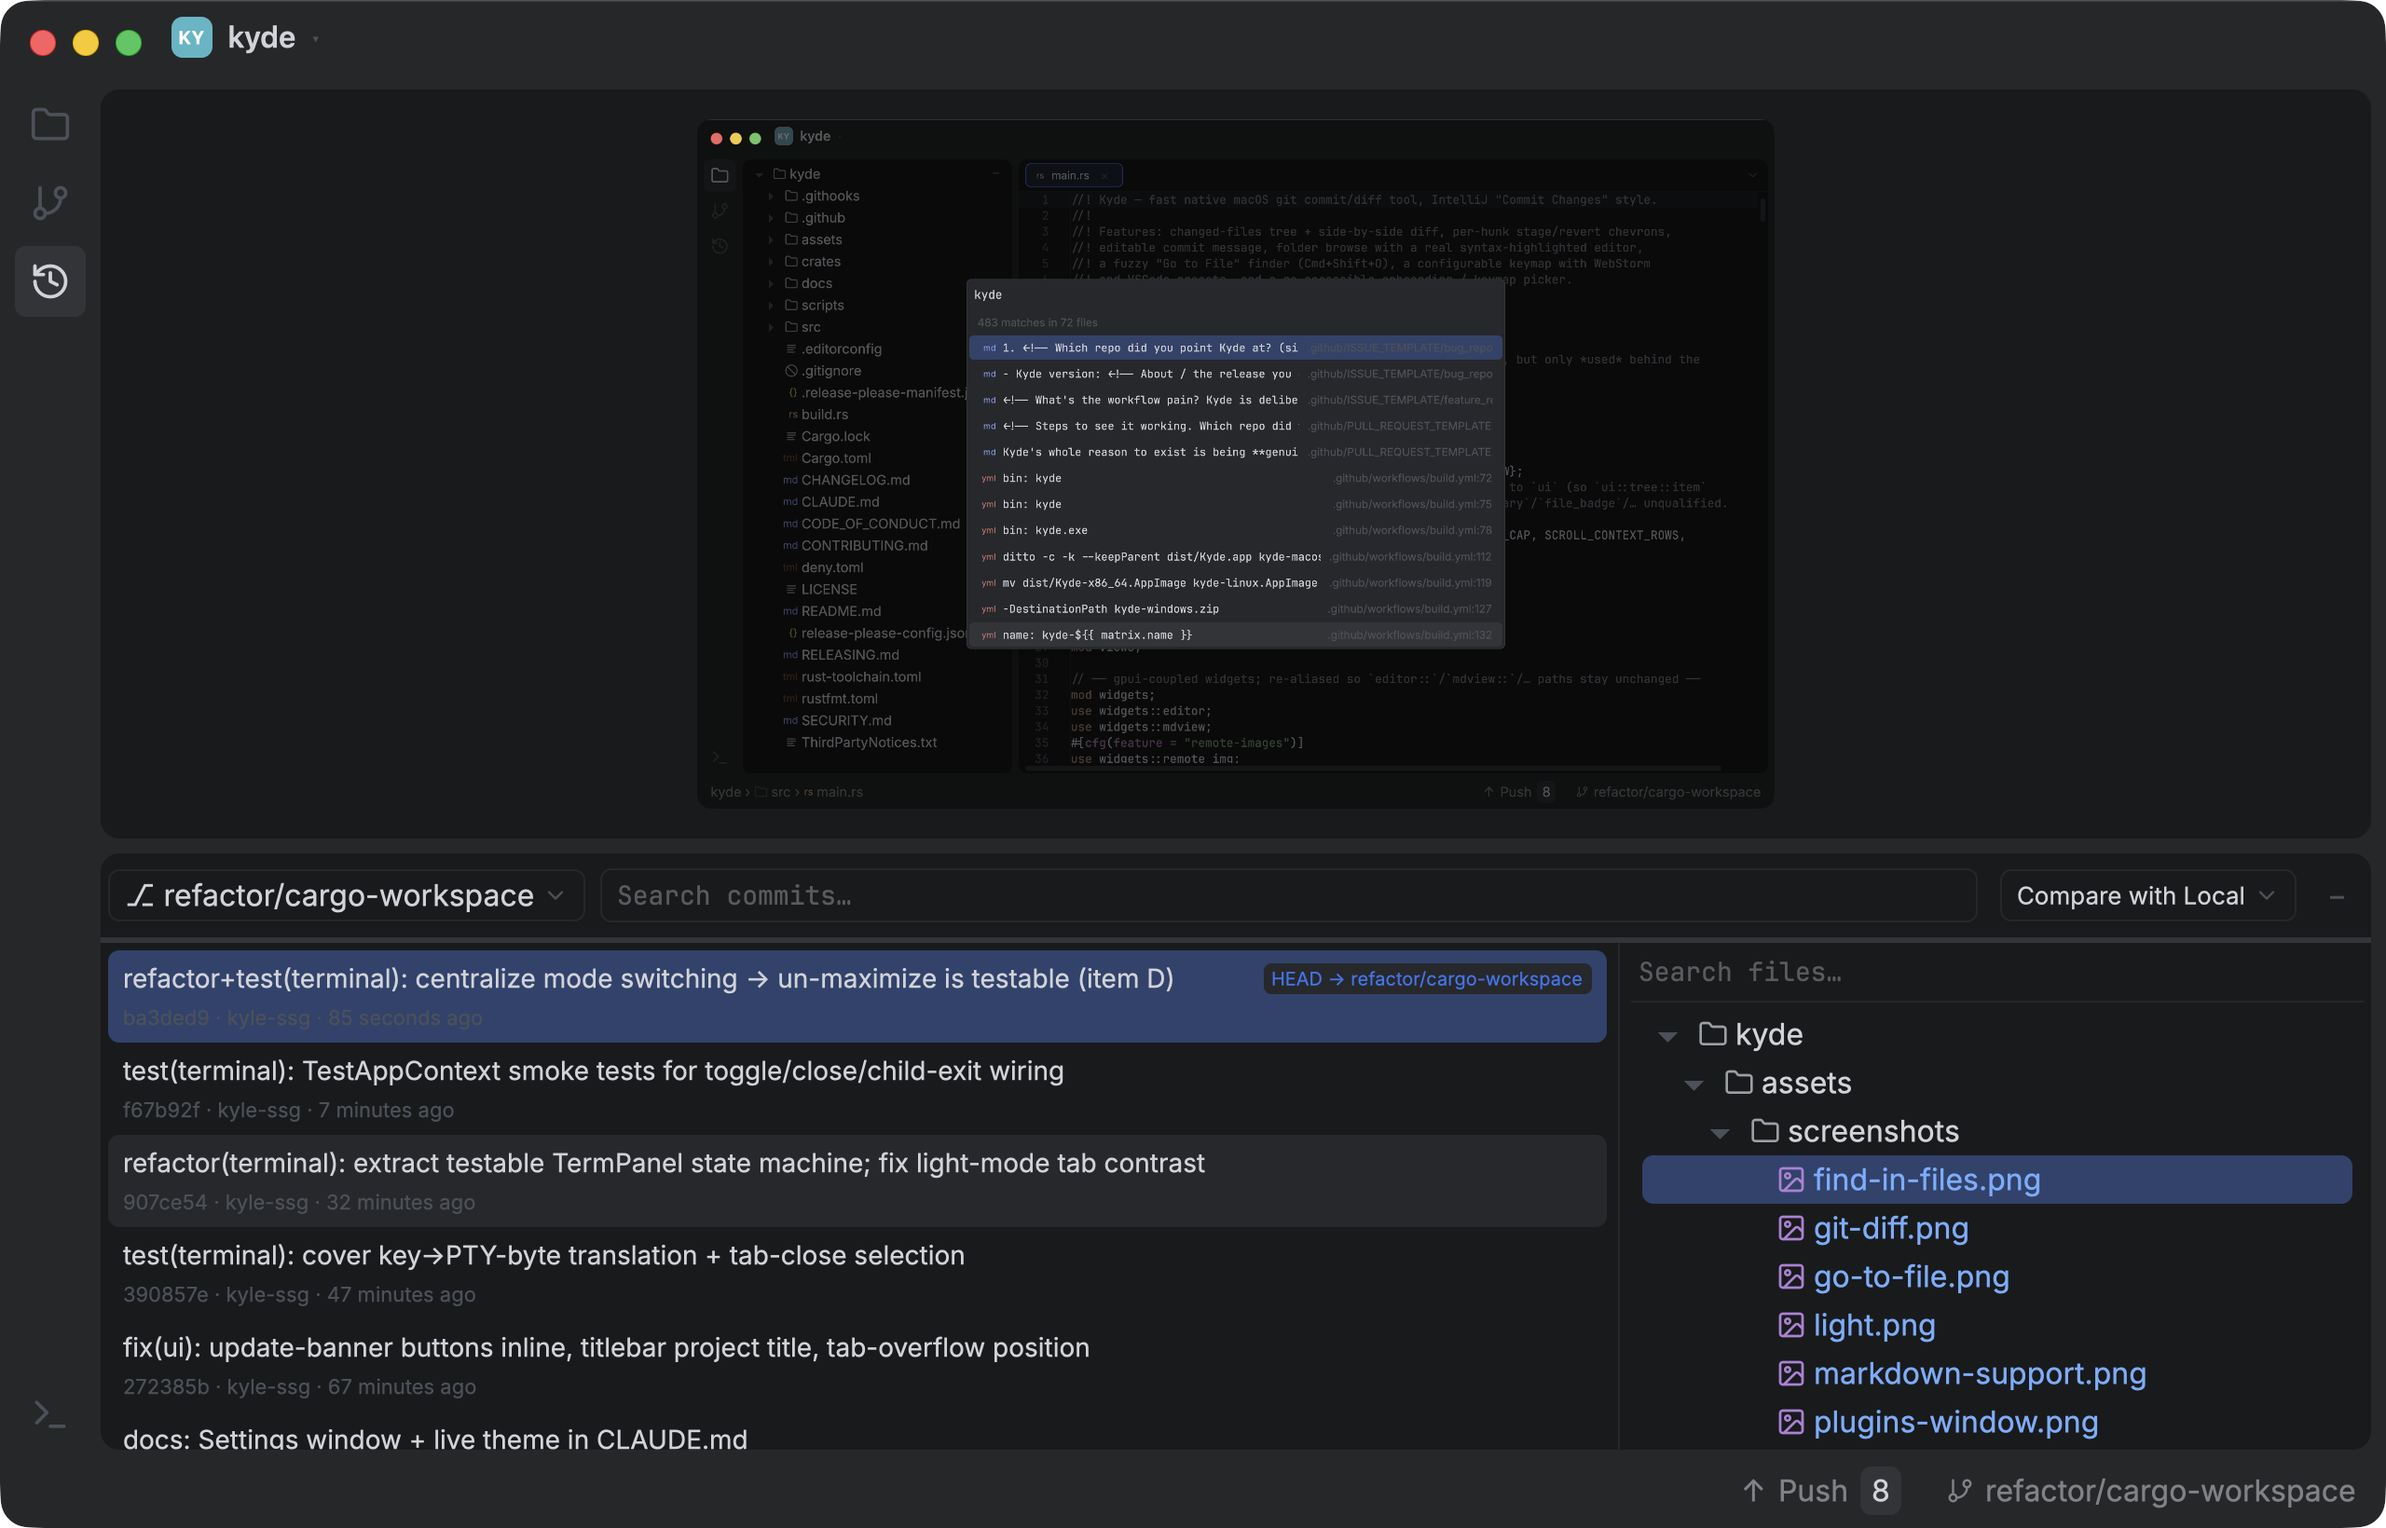
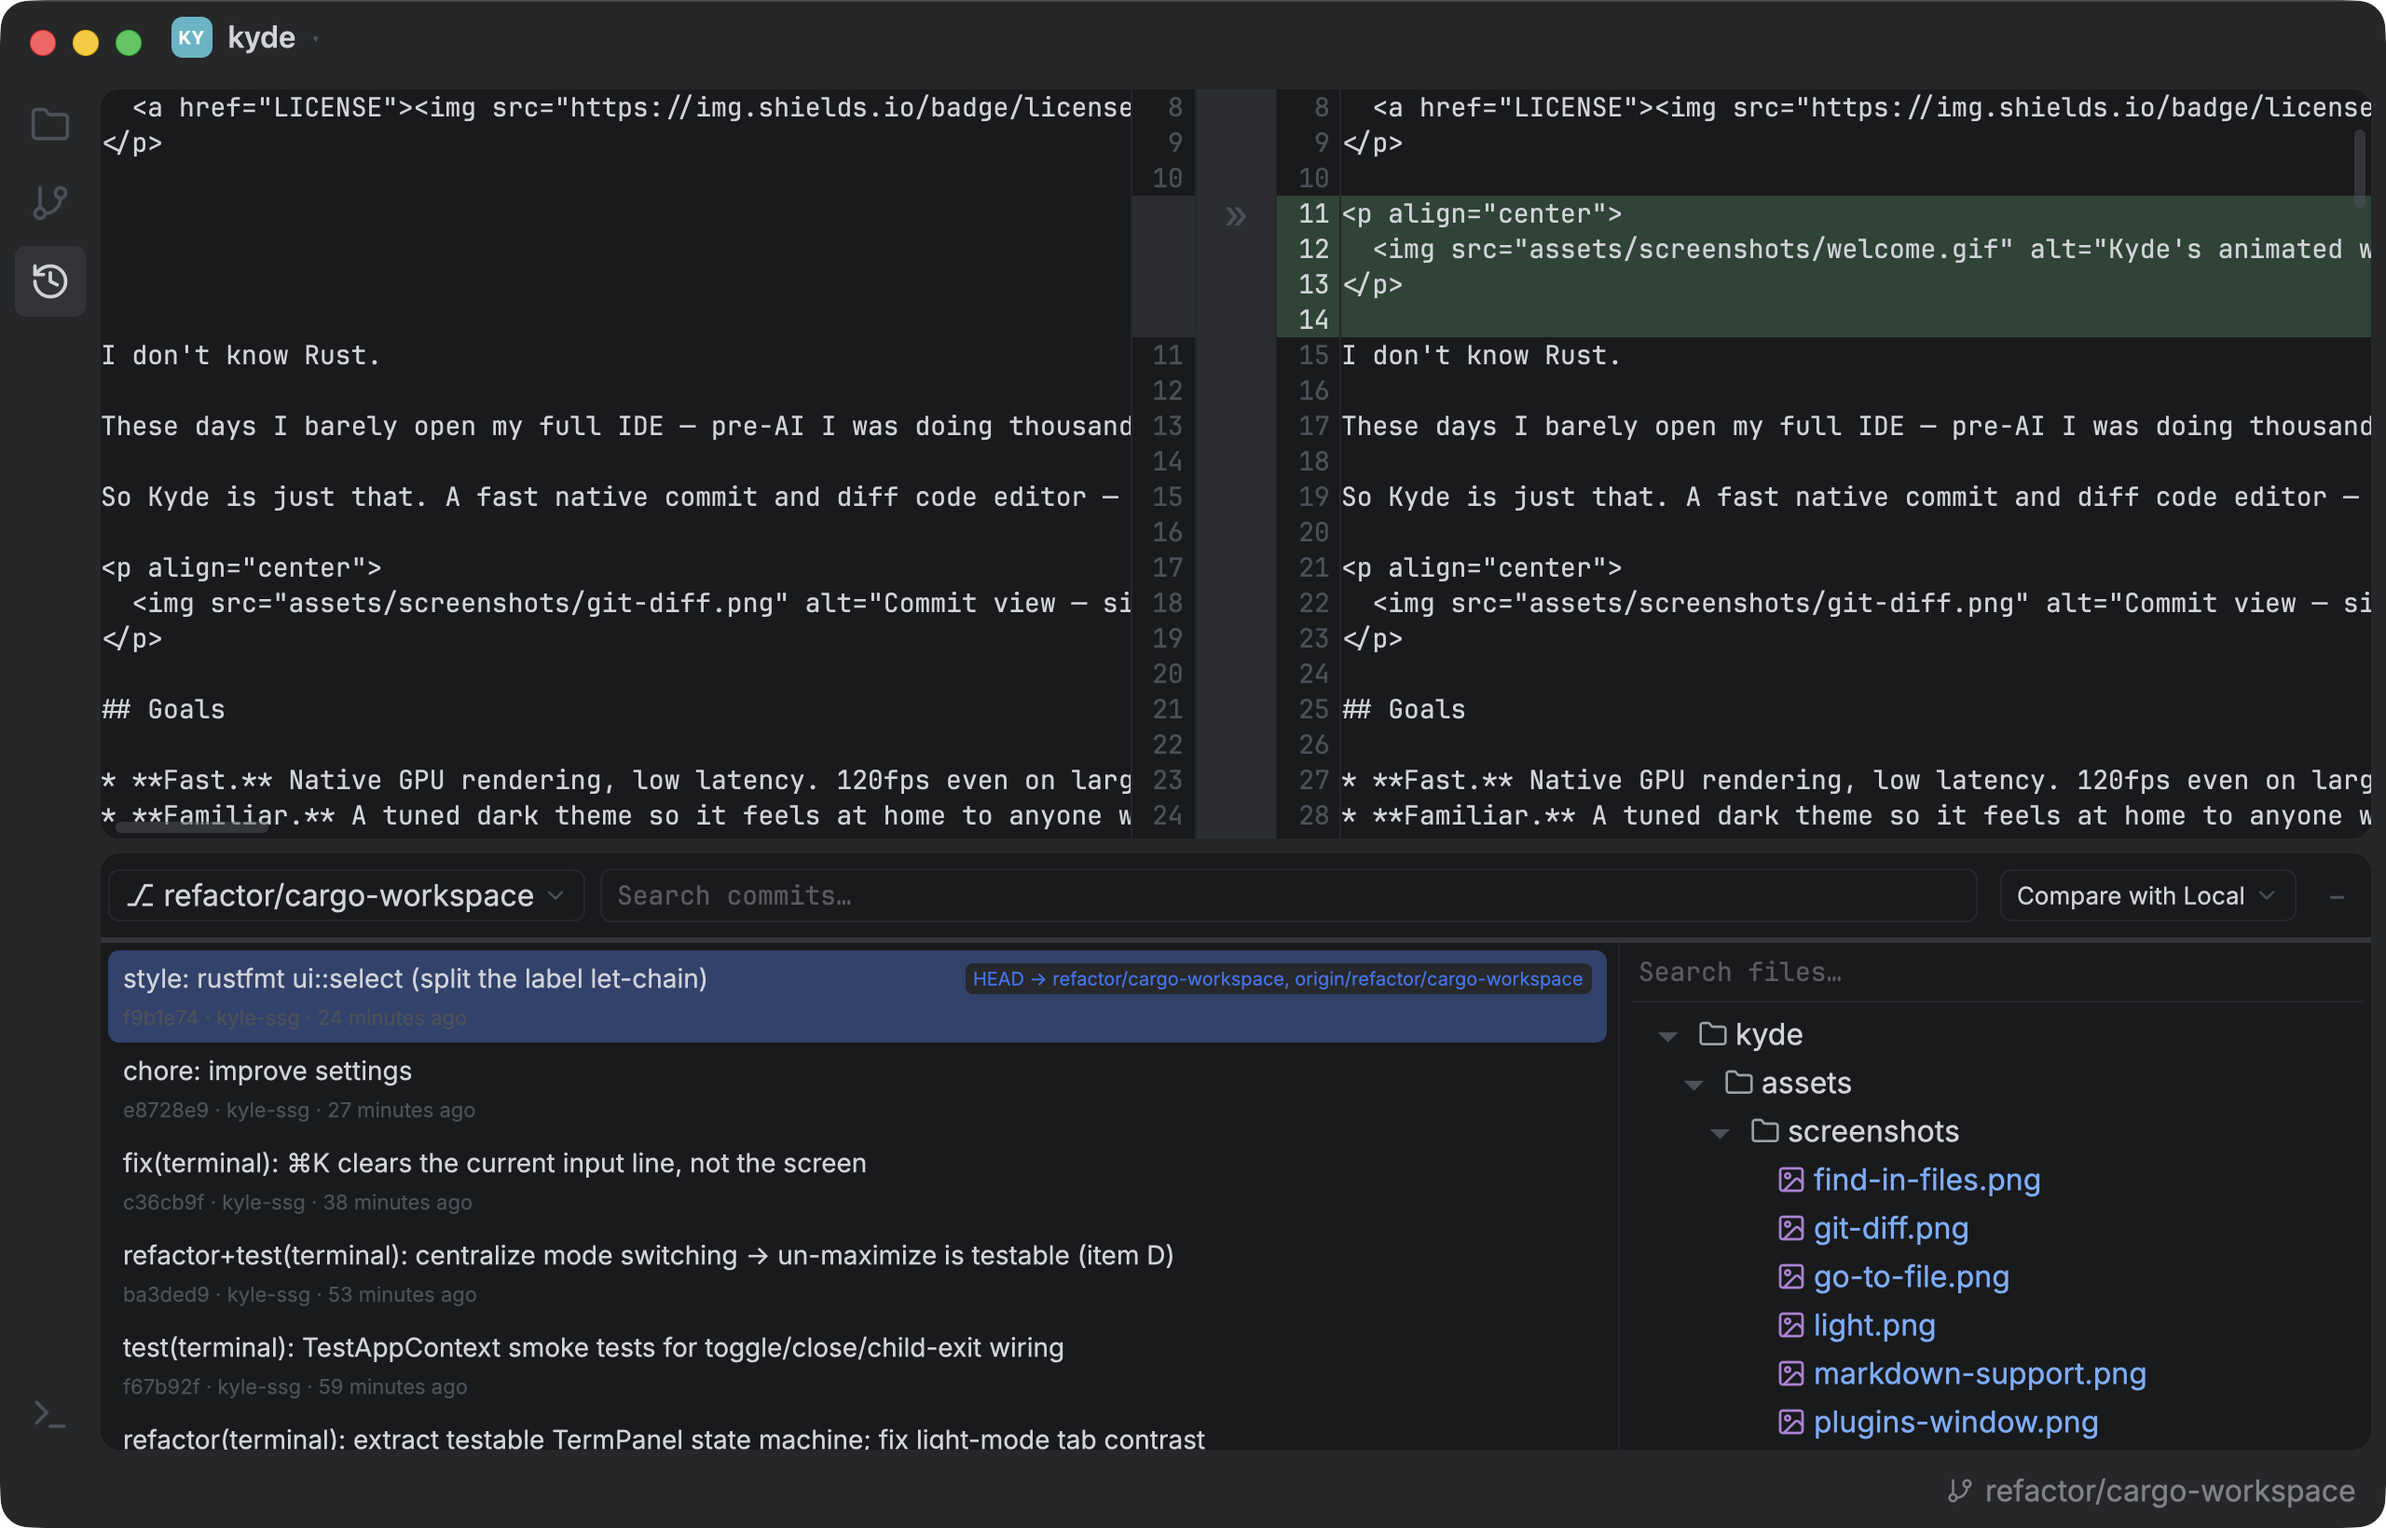
chore: improve readme

diff --git a/src/main.rs b/src/main.rs
@@ -1594,6 +1594,19 @@ fn apply_shot(view: &mut Kyde, name: &str, window: &mut Window, cx: &mut Context
         }
         view.plugins.save();
     };
+    // Pick the changed file to open in the diff pane: prefer the curated `color.rs` showcase
+    // (the screenshot fixture edits it), then any Rust file, else the first change.
+    fn diff_pick(view: &Kyde) -> Option<usize> {
+        view.files
+            .iter()
+            .position(|f| f.path.ends_with("color.rs"))
+            .or_else(|| {
+                view.files
+                    .iter()
+                    .position(|f| f.path.extension().and_then(|e| e.to_str()) == Some("rs"))
+            })
+            .or(if view.files.is_empty() { None } else { Some(0) })
+    }
     match name {
         // Commit view, a changed Rust file selected → side-by-side coloured diff.
         "git-diff" => {
@@ -1605,14 +1618,8 @@ fn apply_shot(view: &mut Kyde, name: &str, window: &mut Window, cx: &mut Context
                 view.open_project(PathBuf::from(repo), cx);
             }
             view.enter_commit(cx);
-            // Click a changed file so the main content shows a side-by-side diff: prefer
-            // README.md, else fall back to the first changed file.
-            let pick = view
-                .files
-                .iter()
-                .position(|f| f.path.as_path() == std::path::Path::new("README.md"))
-                .or(if view.files.is_empty() { None } else { Some(0) });
-            if let Some(i) = pick {
+            // Click a changed file so the main content shows a side-by-side diff.
+            if let Some(i) = diff_pick(view) {
                 view.select_with(i, Some(cx));
             }
         }
@@ -1712,6 +1719,13 @@ fn apply_shot(view: &mut Kyde, name: &str, window: &mut Window, cx: &mut Context
                 t.read(cx).send_input("git status && ls src\n");
             }
             view.focus_active_terminal(window, cx);
+            cx.notify();
+        }
+        // Projects landing welcome hero (the animated 3D KYDE logo + shimmer) — used by the
+        // README welcome GIF. Force no project open so `render` takes the landing path; the
+        // throwaway config has no recents, so it renders the animated hero (not the list).
+        "welcome" => {
+            view.repo_root = None;
             cx.notify();
         }
         other => eprintln!("KYDE_SHOT: unknown state {other:?}"),

diff --git a/src/views/onboarding.rs b/src/views/onboarding.rs
@@ -96,9 +96,9 @@ impl Kyde {
                 div()
                     .text_color(theme::get().line_number)
                     .child(if self.onboarding_forced {
-                        "Pick a keymap to get started. You can change it later in Kyde → Settings."
+                        "Pick a keymap and theme to get started. You can change these any time in Kyde → Settings (⌘,)."
                     } else {
-                        "Reopen any time from Kyde → Settings (⌘,)."
+                        "Change your keymap, theme and more any time in Kyde → Settings (⌘,)."
                     }),
             )
             .child(
@@ -109,6 +109,7 @@ impl Kyde {
                     .child(preset_card(Preset::WebStorm, cx))
                     .child(preset_card(Preset::VSCode, cx)),
             )
+            .child(self.theme_select(cx))
             .child(self.render_shell_command_row(cx))
             // Single primary action, bottom-right: confirm the highlighted choice.
             .child(

diff --git a/src/views/settings.rs b/src/views/settings.rs
@@ -75,7 +75,7 @@ impl Kyde {
     /// Theme select — the reusable `ui::select` over the named palettes. The dropdown floats
     /// over the content (deferred absolute overlay), so it doesn't shove the size rows down.
     /// Picking a palette applies it live (preserving the user's font sizes / row height).
-    fn theme_select(&self, cx: &mut Context<Self>) -> impl IntoElement {
+    pub(crate) fn theme_select(&self, cx: &mut Context<Self>) -> impl IntoElement {
         let t = theme::get();
         let presets = theme::Theme::presets();
         let labels: Vec<&'static str> = presets.iter().map(|(l, _)| *l).collect();

diff --git a/README.md b/README.md
@@ -8,6 +8,10 @@
   <a href="LICENSE"><img src="https://img.shields.io/badge/license-Apache--2.0-blue.svg" alt="License: Apache-2.0"></a>
 </p>
 
+<p align="center">
+  <img src="assets/screenshots/welcome.gif" alt="Kyde's animated welcome screen — a 3D KYDE logo with a diagonal shimmer sweep, over New Project / Open Folder buttons" width="720">
+</p>
+
 I don't know Rust.
 
 These days I barely open my full IDE — pre-AI I was doing thousands of commits a year, and now I mostly live in its commit and diff view, one of the few things heavy enough to make me wait for a JVM to start.
